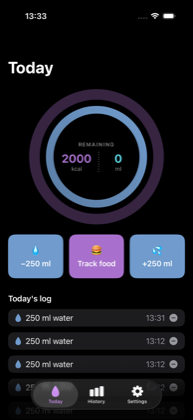
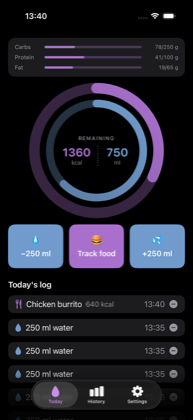
Add a macro panel and drop the Today title
Puts carbs, protein and fat above the rings as three compact bar rows, and
removes the navigation bar from Today — the screen has no title or bar
buttons, so the bar only cost vertical space.

- FoodEntry gains carbsGrams/proteinGrams/fatGrams; UserSettings gains the
  three goals, defaulted to a conventional 50/20/30 split of 2000 kcal
- MacroPanel matches the button row's width and corner radius so the two
  blocks read as a set, and reuses the calorie ring's track colour for the
  unfilled portion of each bar
- HydrationStore.macros sums each nutrient independently

Seeding a food row by hand to check a filled bar also exercised the calorie
path end to end for the first time: the outer ring, the remaining figure and
the food log row were all previously unreachable with the food button inert.

diff --git a/HydroHomie/Views/TodayView.swift b/HydroHomie/Views/TodayView.swift
@@ -43,29 +43,34 @@ struct TodayView: View {
         HydrationStore.mergedLog(water: todaysDrinks, food: todaysFood)
     }
 
+    // No NavigationStack: the screen carries no title or bar buttons, so a nav bar
+    // would only cost vertical space.
     var body: some View {
-        NavigationStack {
-            ScrollView {
-                VStack(spacing: 32) {
-                    rings
-                    TodayActionRow(
-                        unit: unit,
-                        incrementML: settings.waterIncrementML,
-                        canRemove: !todaysDrinks.isEmpty,
-                        onRemove: removeLastWater,
-                        onTrackFood: {},          // Food entry is not designed yet.
-                        onAdd: { add(settings.waterIncrementML) },
-                        onCustomAmount: { showingCustomAmount = true }
-                    )
-                    todaysLog
-                }
-                .padding()
+        ScrollView {
+            VStack(spacing: 24) {
+                MacroPanel(
+                    totals: HydrationStore.macros(of: todaysFood),
+                    carbsGoal: settings.dailyCarbsGoal,
+                    proteinGoal: settings.dailyProteinGoal,
+                    fatGoal: settings.dailyFatGoal
+                )
+                rings
+                TodayActionRow(
+                    unit: unit,
+                    incrementML: settings.waterIncrementML,
+                    canRemove: !todaysDrinks.isEmpty,
+                    onRemove: removeLastWater,
+                    onTrackFood: {},          // Food entry is not designed yet.
+                    onAdd: { add(settings.waterIncrementML) },
+                    onCustomAmount: { showingCustomAmount = true }
+                )
+                todaysLog
             }
-            .navigationTitle("Today")
-            .sheet(isPresented: $showingCustomAmount) {
-                CustomAmountSheet(unit: unit) { amount in
-                    add(amount)
-                }
+            .padding()
+        }
+        .sheet(isPresented: $showingCustomAmount) {
+            CustomAmountSheet(unit: unit) { amount in
+                add(amount)
             }
         }
     }
@@ -86,7 +91,6 @@ struct TodayView: View {
             .padding(.horizontal, 54)
         }
         .frame(width: 260, height: 260)
-        .padding(.top, 12)
     }
 
     // MARK: - Log

diff --git a/HydroHomie/Views/MacroPanel.swift b/HydroHomie/Views/MacroPanel.swift
@@ -1,0 +1,71 @@
+// HydroHomie — a hydration tracker for iOS
+// Copyright (C) 2026 mefiblogger
+// SPDX-License-Identifier: GPL-3.0-or-later
+
+import SwiftUI
+
+/// Compact macro readout above the rings: one row per macro, each a label, a
+/// horizontal bar and a consumed/goal figure. Shares the buttons' corner radius so
+/// the two blocks read as a set.
+struct MacroPanel: View {
+    var totals: MacroTotals
+    var carbsGoal: Double
+    var proteinGoal: Double
+    var fatGoal: Double
+
+    var body: some View {
+        VStack(spacing: 7) {
+            row("Carbs", value: totals.carbs, goal: carbsGoal)
+            row("Protein", value: totals.protein, goal: proteinGoal)
+            row("Fat", value: totals.fat, goal: fatGoal)
+        }
+        .padding(.vertical, 12)
+        .padding(.horizontal, 14)
+        .frame(maxWidth: .infinity)
+        .background(Color(.secondarySystemBackground), in: .rect(cornerRadius: 14))
+    }
+
+    private func row(_ name: String, value: Double, goal: Double) -> some View {
+        HStack(spacing: 10) {
+            Text(name)
+                .font(.caption)
+                .foregroundStyle(.secondary)
+                .frame(width: 52, alignment: .leading)
+
+            bar(progress: HydrationStore.progress(consumed: value, goal: goal))
+
+            Text("\(Int(value.rounded()))/\(Int(goal.rounded())) g")
+                .font(.caption2)
+                .monospacedDigit()
+                .foregroundStyle(.secondary)
+                .frame(width: 66, alignment: .trailing)
+        }
+    }
+
+    private func bar(progress: Double) -> some View {
+        GeometryReader { geometry in
+            ZStack(alignment: .leading) {
+                Capsule()
+                    .fill(Color.ringTrack)
+                Capsule()
+                    .fill(Color.accentColor)
+                    .frame(width: geometry.size.width * min(max(progress, 0), 1))
+            }
+        }
+        .frame(height: 5)
+    }
+}
+
+#Preview {
+    VStack(spacing: 20) {
+        MacroPanel(
+            totals: MacroTotals(),
+            carbsGoal: 250, proteinGoal: 100, fatGoal: 65
+        )
+        MacroPanel(
+            totals: MacroTotals(carbs: 180, protein: 74, fat: 52),
+            carbsGoal: 250, proteinGoal: 100, fatGoal: 65
+        )
+    }
+    .padding()
+}

diff --git a/HydroHomieTests/ConsumptionTests.swift b/HydroHomieTests/ConsumptionTests.swift
@@ -50,6 +50,28 @@ final class ConsumptionTests: XCTestCase {
         XCTAssertEqual(HydrationStore.remaining(goal: 2000, consumed: 0), 2000, accuracy: 0.0001)
     }
 
+    // MARK: - Macros
+
+    func testMacrosSumEachNutrientIndependently() {
+        let food = [
+            FoodEntry(name: "Porridge", calories: 320, carbsGrams: 54, proteinGrams: 11, fatGrams: 6),
+            FoodEntry(name: "Eggs", calories: 180, carbsGrams: 1, proteinGrams: 13, fatGrams: 13)
+        ]
+        let totals = HydrationStore.macros(of: food)
+        XCTAssertEqual(totals.carbs, 55, accuracy: 0.0001)
+        XCTAssertEqual(totals.protein, 24, accuracy: 0.0001)
+        XCTAssertEqual(totals.fat, 19, accuracy: 0.0001)
+    }
+
+    func testMacrosOfEmptyAreAllZero() {
+        XCTAssertEqual(HydrationStore.macros(of: []), MacroTotals())
+    }
+
+    func testMacrosDefaultToZeroWhenOnlyCaloriesAreKnown() {
+        let food = [FoodEntry(name: "Mystery snack", calories: 250)]
+        XCTAssertEqual(HydrationStore.macros(of: food), MacroTotals())
+    }
+
     // MARK: - Merged log
 
     func testMergedLogIsNewestFirstAcrossBothStreams() {

diff --git a/Shared/Models/FoodEntry.swift b/Shared/Models/FoodEntry.swift
@@ -11,12 +11,25 @@ final class FoodEntry {
     var id: UUID = UUID()
     var name: String = ""
     var calories: Double = 0
+    var carbsGrams: Double = 0
+    var proteinGrams: Double = 0
+    var fatGrams: Double = 0
     var timestamp: Date = Date()
 
-    init(name: String, calories: Double, timestamp: Date = Date()) {
+    init(
+        name: String,
+        calories: Double,
+        carbsGrams: Double = 0,
+        proteinGrams: Double = 0,
+        fatGrams: Double = 0,
+        timestamp: Date = Date()
+    ) {
         self.id = UUID()
         self.name = name
         self.calories = calories
+        self.carbsGrams = carbsGrams
+        self.proteinGrams = proteinGrams
+        self.fatGrams = fatGrams
         self.timestamp = timestamp
     }
 }

diff --git a/Shared/Persistence/HydrationStore.swift b/Shared/Persistence/HydrationStore.swift
@@ -125,3 +125,21 @@ extension HydrationStore {
             .sorted { $0.timestamp > $1.timestamp }
     }
 }
+
+// MARK: - Macros
+
+struct MacroTotals: Equatable, Sendable {
+    var carbs: Double = 0
+    var protein: Double = 0
+    var fat: Double = 0
+}
+
+extension HydrationStore {
+    static func macros(of entries: [FoodEntry]) -> MacroTotals {
+        entries.reduce(into: MacroTotals()) { totals, entry in
+            totals.carbs += entry.carbsGrams
+            totals.protein += entry.proteinGrams
+            totals.fat += entry.fatGrams
+        }
+    }
+}

diff --git a/Shared/Models/UserSettings.swift b/Shared/Models/UserSettings.swift
@@ -18,6 +18,10 @@ final class UserSettings {
     var reminderEndHour: Int = 22
     var healthKitEnabled: Bool = false
     var dailyCalorieGoal: Double = 2000
+    // A conventional split of a 2000 kcal day: 50% carbs, 20% protein, 30% fat.
+    var dailyCarbsGoal: Double = 250
+    var dailyProteinGoal: Double = 100
+    var dailyFatGoal: Double = 65
     /// Amount added or removed by the quick-add buttons, in millilitres.
     var waterIncrementML: Double = 250
     var appearanceRawValue: String = AppAppearance.system.rawValue

diff --git a/README.md b/README.md
@@ -16,6 +16,7 @@ home screen widget.
 - Add or remove water in one tap; press and hold the add button for an exact amount
 - A configurable quick-add amount, so the buttons match the glass you actually use
 - One log for the day, water and food together
+- A compact macro panel tracking carbs, protein and fat against daily targets
 - History with a 7- or 30-day chart, daily average and goal-met count
 - Millilitres or US fluid ounces, switchable at any time without touching stored data
 - Configurable reminders through the day
@@ -119,6 +120,7 @@ xcodebuild -project HydroHomie.xcodeproj -scheme HydroHomie \
 - Food logging — the 🍔 button is deliberately inert until the entry design is settled,
   so the calorie ring stays empty and calories-remaining stays at your full goal
 - History charts water only, and the widget is water-only too
+- Macro goals have sensible defaults but no Settings UI to change them yet
 - The Settings appearance picker does not affect the widget (see above)
 - Reminder scheduling is wired up but the permission flow hasn't been exercised end to end
 - No app icon artwork — `AppIcon.appiconset` is an empty 1024×1024 slot
